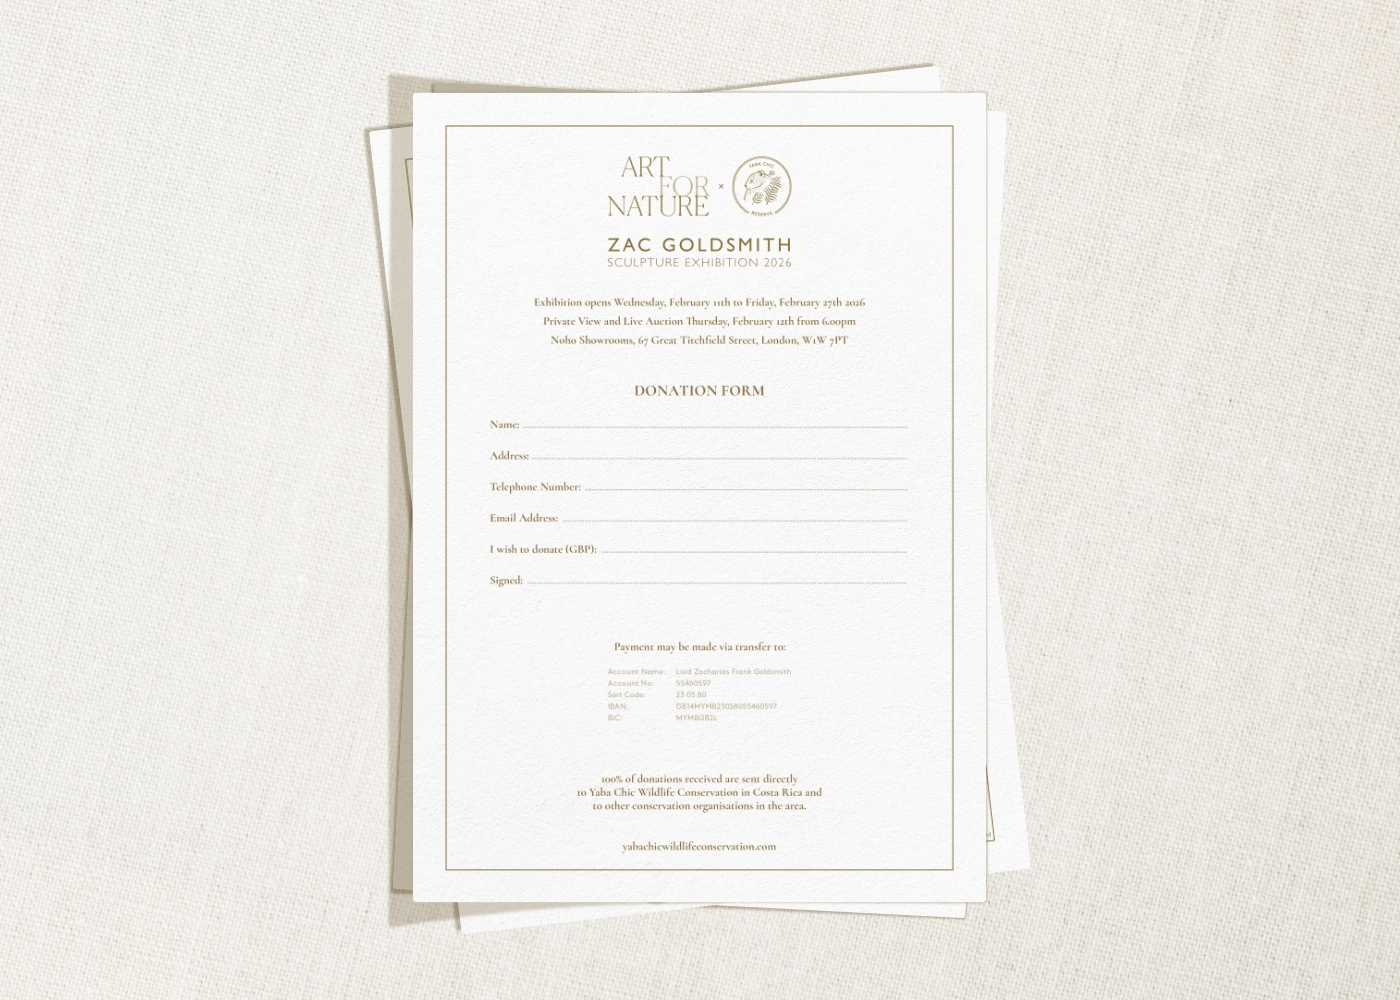
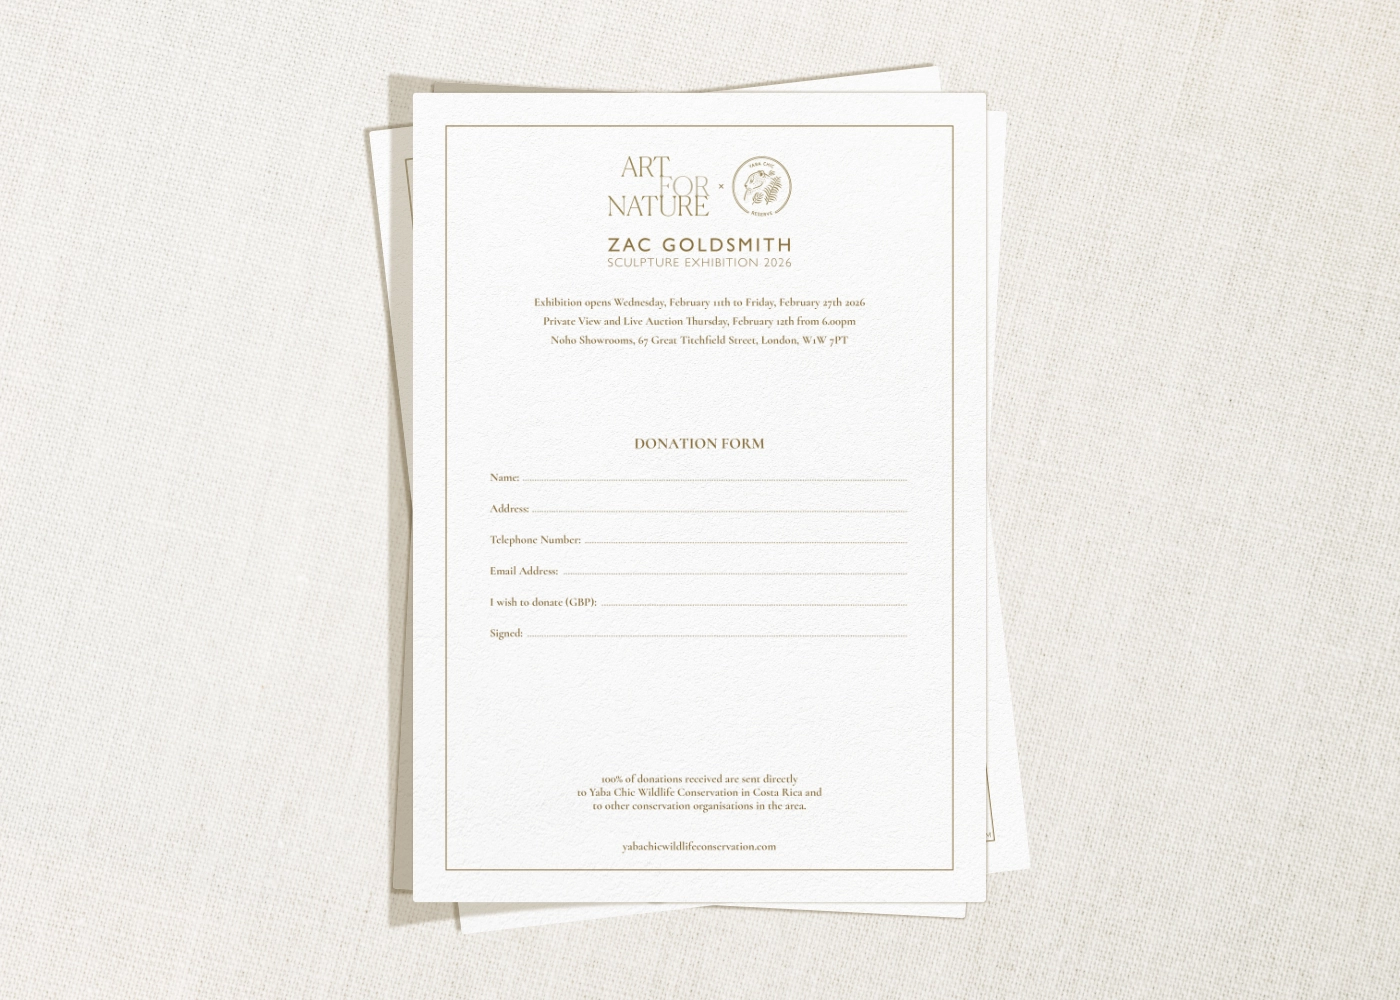
mew image for afn

diff --git a/test/src/Pages/articles/scottishwidows.js b/test/src/Pages/articles/scottishwidows.js
@@ -7,12 +7,12 @@ import { Footer } from "../../components/Footer"
 import { PageClass, URL } from "../../classes"
 import { useThemeContext } from "../../context/theme"
 import { useEffect } from "react"
-import { Adobe, AfterEffects, AnimationChip, Brand, Illustrator, Motion } from "../../components/Chips"
+import { Adobe, AfterEffects, AnimationChip, Brand, Illustrator, Motion, PersonalProject } from "../../components/Chips"
 import { ArticalContainer } from "../../components/ArticalHolder"
 import backgroundImage from '../../images/articles/scottishwidows/swframes.png'
 import { IMG, VIDEO } from "../../components/fullscreenable"
 
-const properties = new PageClass('Scottish Widows: Brand Mark Animation','/articles/scottishwidows',6,'09/03/2025','article',{chips:[Brand,Motion,AfterEffects,AnimationChip,Adobe,Illustrator]})
+const properties = new PageClass('Scottish Widows: Brand Mark Animation','/articles/scottishwidows',6,'09/03/2025','article',{chips:[PersonalProject,Brand,Motion,AfterEffects,AnimationChip,Adobe,Illustrator]})
 
 const Background =()=>{
     const style={    
@@ -30,6 +30,7 @@ properties.fill = <Background/>
 const Page = ()=>{
     return(
         <ArticalContainer properties={properties}>
+                <p>This is a personal exploration project seeking to create an animation for the Scottish Widows brand mark in-line with the parent company (Lloyds Banking Group) brand refresh that features their iconic house rising up on its hind legs as it kicks in a show of confidence for the institution. </p>
                 <VIDEO style={{aspectRatio:'16/9'}}>
                     <source src={require('../../images/articles/scottishwidows/TrueSizeback.mp4')} type="video/mp4" />
                 </VIDEO>
@@ -40,7 +41,7 @@ const Page = ()=>{
                 <div>
                 <IMG className="inline" src={require('../../images/articles/scottishwidows/devide.png')} alt='a set of 8 icons of different styles of underware'/>
 
-                <p>Dividing the logo into its animatable parts</p>
+                <p>After sketching out the key positions in the animation, the initial hooded figure, stepping forward, and the final gust of wind, I divided the mark into its individual parts to be keyframed.</p>
                 </div>
                 <div>
                 <VIDEO controls style={{aspectRatio:'16/9'}}>

diff --git a/test/src/Pages/articles/DavidPhillips/About.js b/test/src/Pages/articles/DavidPhillips/About.js
@@ -9,7 +9,7 @@ import { useThemeContext } from "../../../context/theme"
 import { useEffect } from "react"
 import { DavidPhillips } from "../../../components/Chips"
 import { ParentContainer } from "../../../components/ParentPage"
-import { IMG } from "../../../components/fullscreenable"
+import { IMG, VIDEO } from "../../../components/fullscreenable"
 import backgroundImage from "../../../images/articles/davidphillips/brochurescoverstack.png"
 import screenimage from '../../../images/articles/davidphillips/New+Berkley+House+-+pantry+6+©+Amy+Hunter+Photography.webp'
 import { Review, reviews } from "../../../components/review"
@@ -39,6 +39,9 @@ const Page = ()=>{
                     <h2>Incentives</h2>
                     <p>Incentives primarily serve the development sector. By forming partnerships with developers, they offer furniture as incentives to potential buyers in the form of either a prepaid gift card or a preselected package designed to fit within the development. This model has also been used in the operational real estate market, in build to rent units, where occupation is slow.</p>
                 </div>
+                                <VIDEO controls style={{aspectRatio:'16/9'}}>
+                                    <source src={require('../../../images/articles/scottishwidows/IconTrueSizeback.mp4')} type="video/mp4" />
+                                </VIDEO> 
                 <div>
                     <h2>Rental</h2>
                     <p>Rental as a model is used across all sectors, with the primary service of home staging being used to boost interest in properties. For rental properties and those seeking to relocate, they also offer rental for use services for those who need a property furnished on a temporary basis. </p>

diff --git a/test/src/style/basics.css b/test/src/style/basics.css
@@ -3,7 +3,7 @@ body{
     margin: 0;
     overflow-x: hidden;
     background-color: var(--background02);
-    position: relative;
+    /* position: relative; */
 }
 .hometext,.hometext2{
     text-align:center;
@@ -286,6 +286,8 @@ video.fullscreen{
     z-index: 25;
     width: 100%;
     height: 100%;
+    max-height: 100vh;
+    max-width: 100vw;
     top: 0;
     left: 0;
     cursor: zoom-out;
@@ -360,8 +362,12 @@ margin: 0;
     margin: 0;
     overflow: hidden;
     border-radius: 4px;
-    position: relative;
     cursor: zoom-in;
+    position: relative;
+
+}
+.videoHolder.notfull{
+    position: relative;
 }
 .videoHolder video.inline{
     width: 100%;

diff --git a/test/src/components/Chips.jsx b/test/src/components/Chips.jsx
@@ -41,4 +41,5 @@ export const Helen = new C("ArticlesFilter",'AFG','Helen Fairclough Campaigns','
 export const Crimson = new C("about",'Crimson','CRIMSON','crimson','Brand',1,true)
 export const Cudoni = new C(A+"cudoni",'cudoni','Cudoni','','Brand',1,true)
 export const WebDesign = new C("ArticlesFilter",'webdesign','Web Design','','Service')
+export const PersonalProject = new C("ArticlesFilter",'personalproject','Personal Projects','','other')
 // export const FastGenerations = new C(A+"fastgenerations",'fastgen','Fast Generations','','Brand',1,true)

diff --git a/test/src/components/fullscreenable.jsx b/test/src/components/fullscreenable.jsx
@@ -163,7 +163,7 @@ export const VIDEO=({children,...atributes})=>{
         else dispatchControl(['openclose'])
     }
     return(
-        <div {...atributes} className="videoHolder">
+        <div {...atributes} className={control.open? 'videoHolder':'videoHolder notfull'}>
         <div className="fsmessage"><p >Video playing in fullscreen mode</p></div>
         <video 
             ref={videoRef} 
